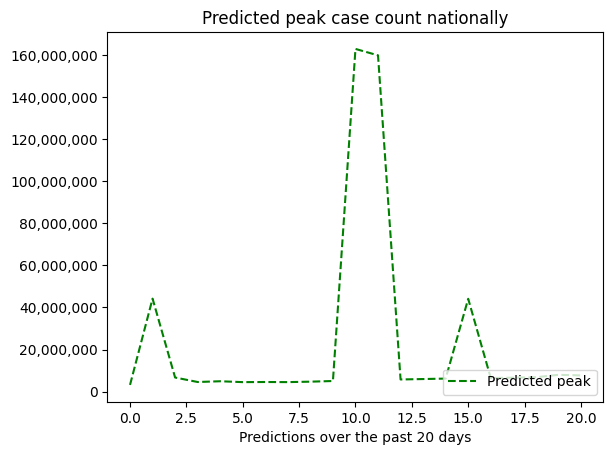
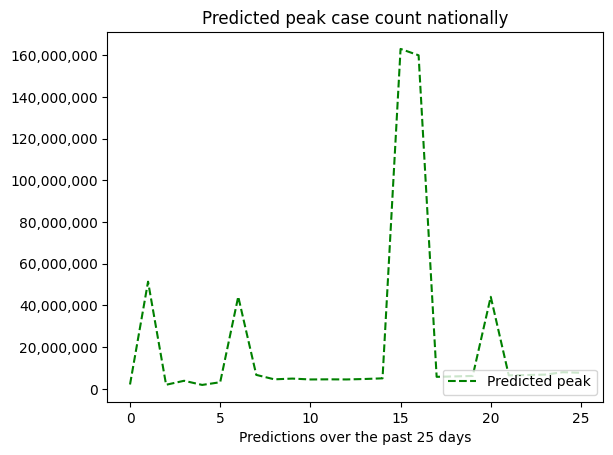
Bump lookback to 25

diff --git a/covidtracking.py b/covidtracking.py
@@ -5,7 +5,7 @@ from scipy.optimize import curve_fit
 
 ASSUMED_RATIO = 0.03
 DAYS_TO_PLOT = 150
-LOOKBACK = 20
+LOOKBACK = 25
 
 def model(x, a, b, c, d):
     return a * np.tanh(b * x + c) + d
